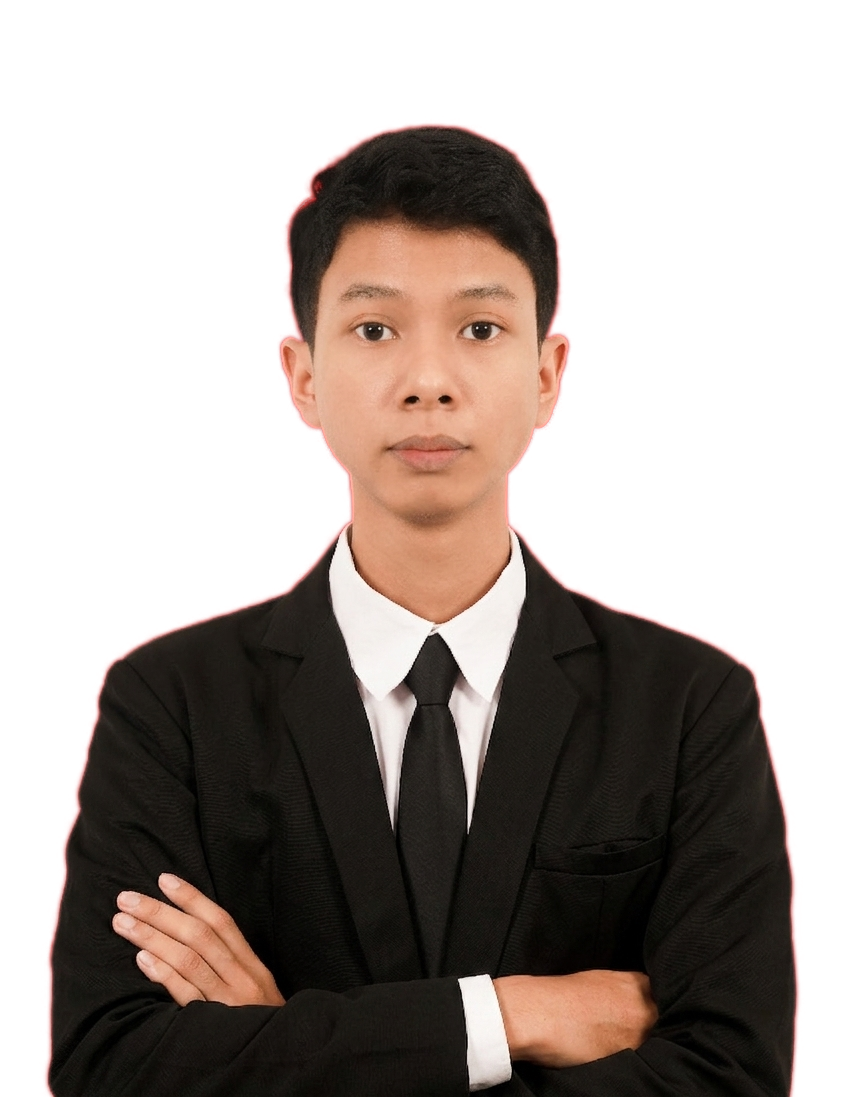
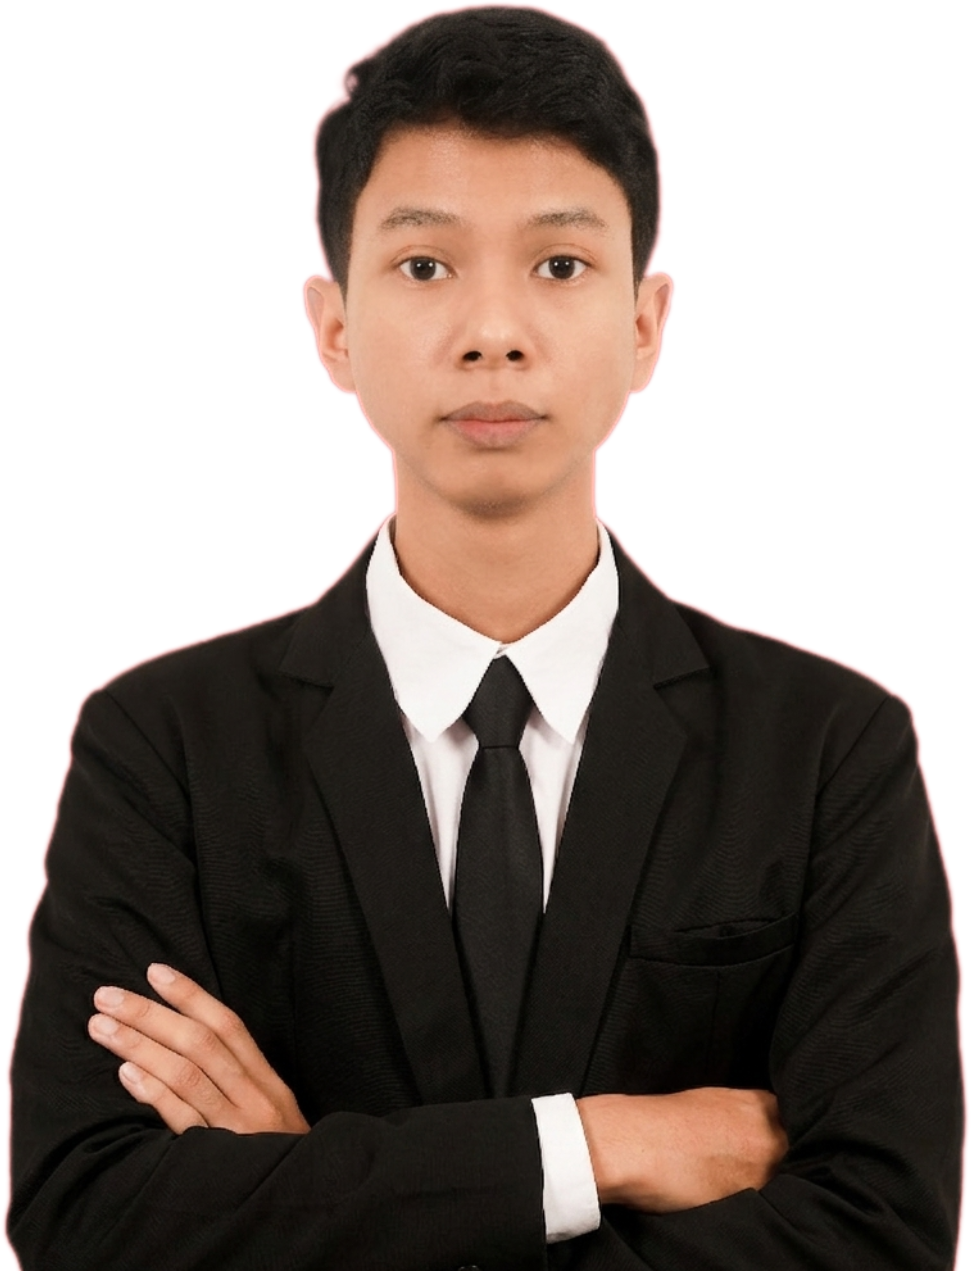
fix scroll bug

diff --git a/src/pages/HomePage.vue b/src/pages/HomePage.vue
@@ -31,6 +31,7 @@ const { animateProjects } = useProjectAnimation();
 
 let lenis = null;
 let rafId = null;
+let ctx = null;
 
 const initAnimations = () => {
   animateHero();
@@ -56,34 +57,25 @@ onMounted(() => {
   };
   rafId = requestAnimationFrame(raf);
 
-  // Initialize GSAP ScrollTrigger with Lenis proxy
+  // Initialize GSAP ScrollTrigger
   gsap.registerPlugin(ScrollTrigger);
-  ScrollTrigger.scrollerProxy("body", {
-    scrollTop(value) {
-      return arguments.length ? lenis.scrollTo(value) : lenis.scroll;
-    },
-    getBoundingClientRect() {
-      return {
-        top: 0,
-        left: 0,
-        width: window.innerWidth,
-        height: window.innerHeight,
-      };
-    },
-    pinType: document.body.style.transform ? "transform" : "fixed",
-  });
 
   lenis.on("scroll", ScrollTrigger.update);
   gsap.ticker.add(ScrollTrigger.update);
 
-  // Run animations
-  initAnimations();
+  // Wrap all animations in a context for proper cleanup in SPAs
+  ctx = gsap.context(() => {
+    initAnimations();
+  });
 });
 
 onUnmounted(() => {
   if (rafId) cancelAnimationFrame(rafId);
   if (lenis) lenis.destroy();
-  ScrollTrigger.getAll().forEach((trigger) => trigger.kill());
+  gsap.ticker.remove(ScrollTrigger.update);
+
+  // Revert all GSAP animations and ScrollTriggers created in this context
+  if (ctx) ctx.revert();
 });
 </script>
 
@@ -166,14 +158,12 @@ onUnmounted(() => {
 
             <!-- Hero Image -->
             <div id="hero-card" class="shrink-0 relative opacity-0 translate-y-15">
-              <!-- Image container with bottom border to anchor it -->
-              <div class="relative w-72 h-72 lg:w-80 lg:h-96 flex items-end">
-                <!-- <img
-                  src="/me.png"
+              <div class="relative w-auto h-72 lg:w-80 lg:h-96 flex items-end justify-center">
+                <img
+                  src="@/assets/img/me.png"
                   alt="Andy Vilamuzz"
-                  class="w-full h-full object-cover rounded-t-3xl border-b-4 border-primary shadow-2xl"
-                /> -->
-                <div class="w-30 h-30 bg-primary"></div>
+                  class="relative z-10 w-auto h-full object-cover border-b-4 border-primary pointer-events-none"
+                />
               </div>
             </div>
           </div>
@@ -350,7 +340,7 @@ onUnmounted(() => {
             <div class="absolute inset-0 w-full h-full">
               <div :class="['background absolute inset-0 w-full h-full', item.bgClass]"></div>
               <div
-                class="content absolute inset-0 w-full h-full flex flex-col justify-center px-32 z-10"
+                class="content absolute inset-0 w-full h-full flex flex-col justify-end px-32 pb-[15%] z-10"
               >
                 <div class="overflow-hidden mb-6">
                   <h3 class="expertise-item-title text-3xl font-bold inline-block">
